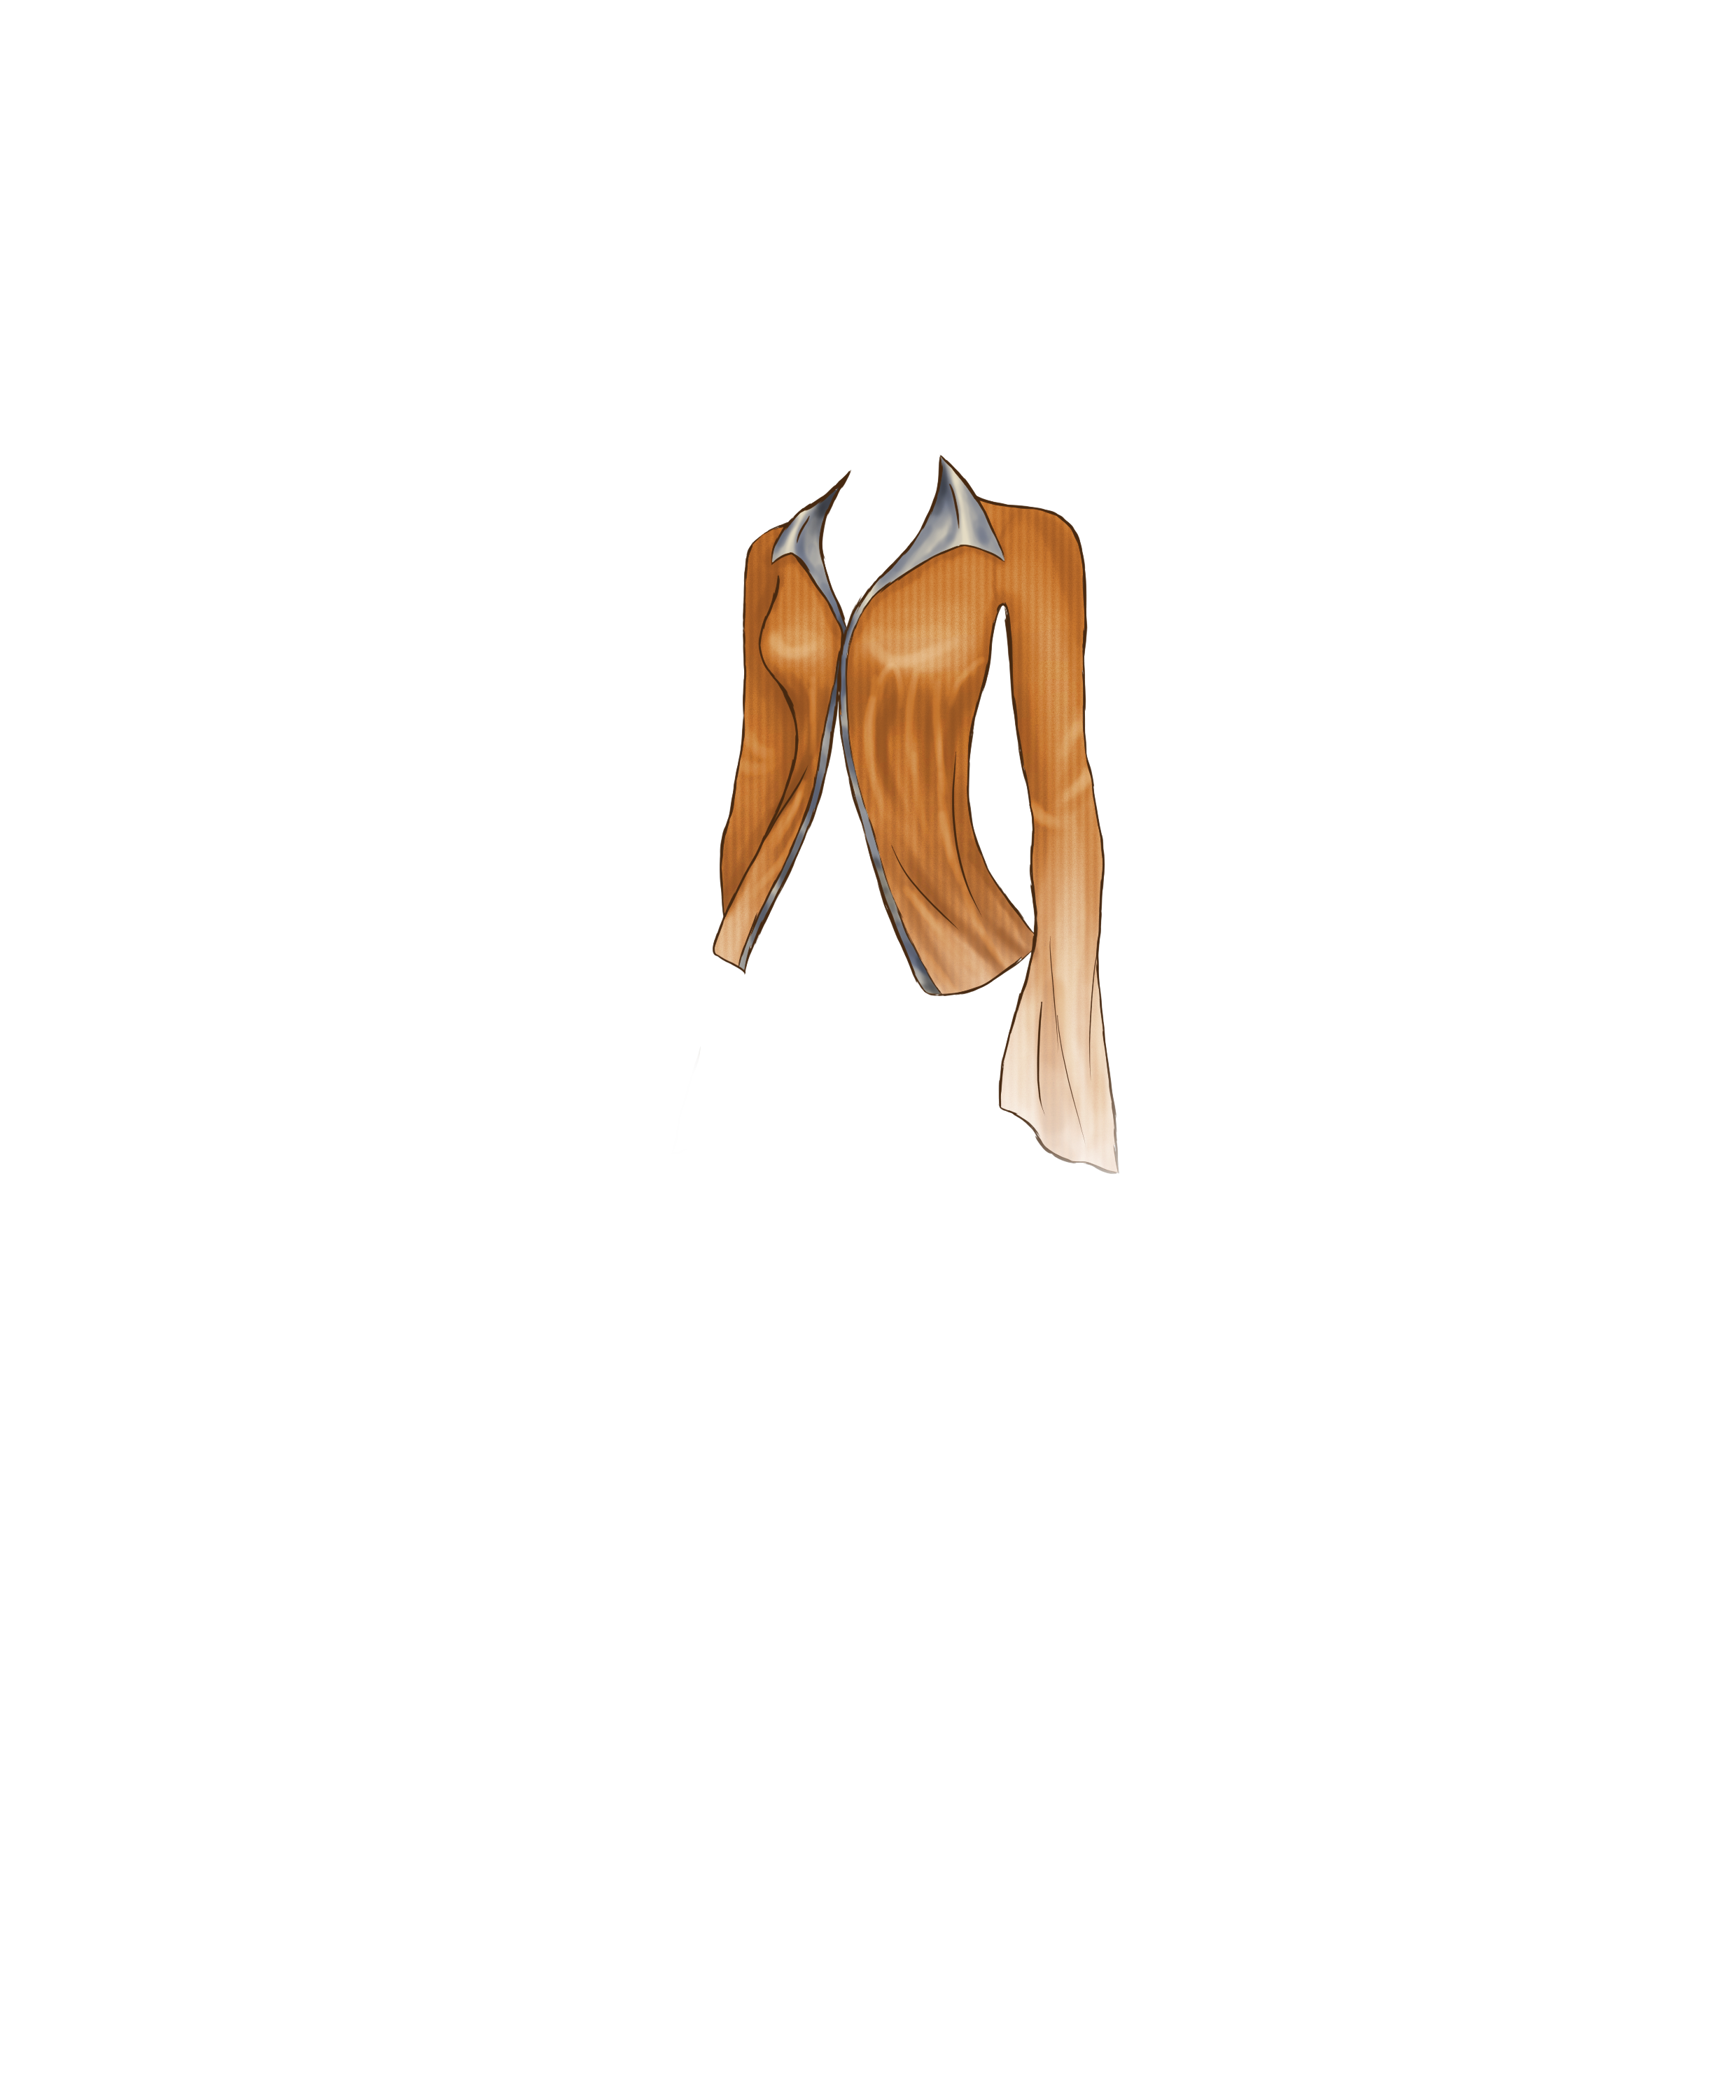
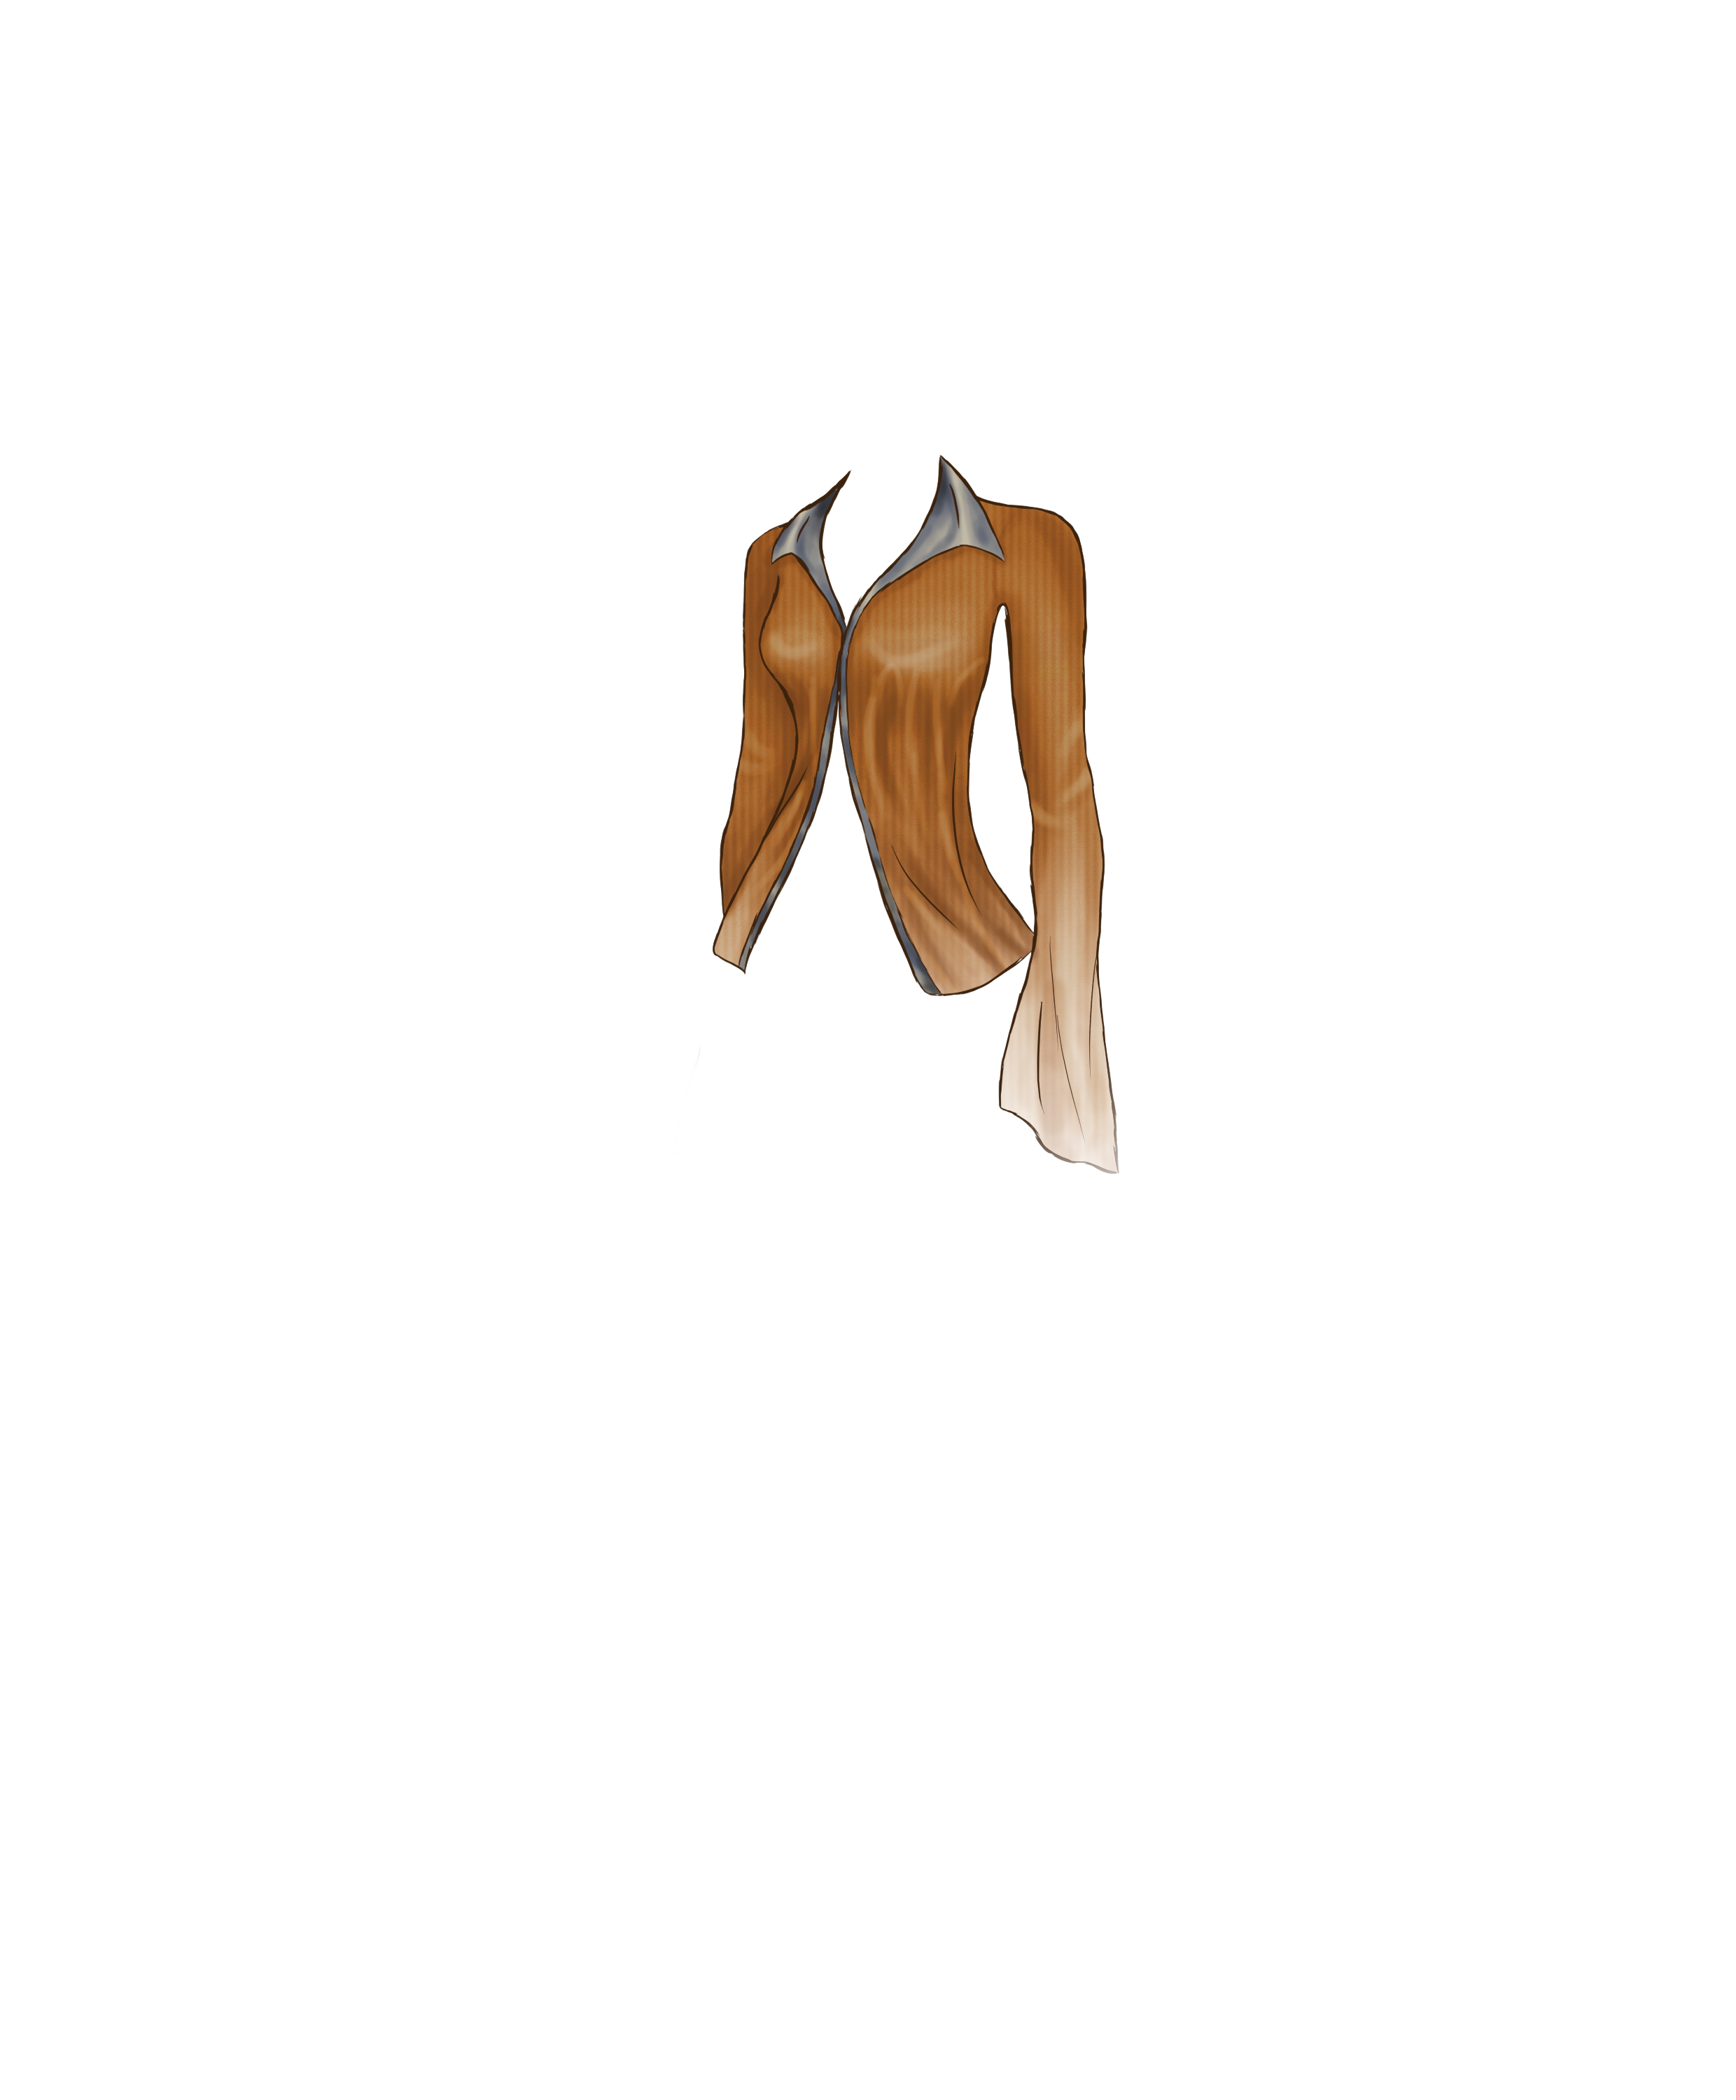
Editing images, added new top

Changed region(s): [[0.4036, 0.217, 0.652, 0.465]]

diff --git a/dollidemo.html b/dollidemo.html
@@ -1,10 +1,3 @@
-
-
-
-
-
-
-
 <!DOCTYPE html>
 <html lang="en">
 <head>
@@ -837,6 +830,7 @@
 
                 <div class="clothes">
 
+
                     <div class="topstyle" id="tubetop">
 
                     <img loading="lazy" src="DressupGame_Assets/Clothes/Under/Tube/tubetop_pink.PNG" data-color="pink" class="tops"/>
@@ -850,6 +844,19 @@
                     <img loading="lazy" src="DressupGame_Assets/Clothes/Under/Tube/tubetop_white.png" data-color="white" style="display:block;" class="tops"/>       
                     <img loading="lazy" src="DressupGame_Assets/Clothes/Under/Tube/tubetop_black.png" data-color="black" class="tops"/>
        
+                    </div>
+
+                    <div class="topstyle" id="bandeau">
+                    <img loading="lazy" src="DressupGame_Assets/Clothes/Under/Bandeau/pattern_bandeau_pink.png" data-color="pink" class="tops"/>
+                    <img loading="lazy" src="DressupGame_Assets/Clothes/Under/Bandeau/pattern_bandeau_red.png" data-color="red" class="tops"/>
+                    <img loading="lazy" src="DressupGame_Assets/Clothes/Under/Bandeau/pattern_bandeau_yellow.png" data-color="yellow" class="tops"/>
+                    <img loading="lazy" src="DressupGame_Assets/Clothes/Under/Bandeau/pattern_bandeau_green.png" data-color="green" class="tops"/>
+                    <img loading="lazy" src="DressupGame_Assets/Clothes/Under/Bandeau/pattern_bandeau_blue.png" data-color="blue" class="tops"/>                    
+                    <img loading="lazy" src="DressupGame_Assets/Clothes/Under/Bandeau/pattern_bandeau_purple.png" data-color="purple" class="tops"/>
+                    <img loading="lazy" src="DressupGame_Assets/Clothes/Under/Bandeau/pattern_bandeau_magenta.png" data-color="magenta" class="tops"/>
+                    <img loading="lazy" src="DressupGame_Assets/Clothes/Under/Bandeau/pattern_bandeau_brown.png" data-color="brown" class="tops"/>
+                    <img loading="lazy" src="DressupGame_Assets/Clothes/Under/Bandeau/pattern_bandeau_white.png" data-color="white" class="tops"/>
+                    <img loading="lazy" src="DressupGame_Assets/Clothes/Under/Bandeau/pattern_bandeau_black.png" data-color="black" class="tops"/>
                     </div>
                   
                     <div class="topstyle" id="tank1">
@@ -917,7 +924,18 @@
                     <img loading="lazy" src="DressupGame_Assets/Clothes/Tops/Cardigan/cardigan_black.png" data-color="black" class="tops"/>
                     </div>
 
-
+                   <div class="topstyle" id="fishnet">
+                    <img loading="lazy" src="DressupGame_Assets/Clothes/Tops/FishnetSleeves/fishnet_sleeves_pink.png" data-color="pink" class="tops"/>
+                    <img loading="lazy" src="DressupGame_Assets/Clothes/Tops/FishnetSleeves/fishnet_sleeves_red.png" data-color="red" class="tops"/>
+                    <img loading="lazy" src="DressupGame_Assets/Clothes/Tops/FishnetSleeves/fishnet_sleeves_yellow.png" data-color="yellow" class="tops"/>
+                    <img loading="lazy" src="DressupGame_Assets/Clothes/Tops/FishnetSleeves/fishnet_sleeves_green.png" data-color="green" class="tops"/>
+                    <img loading="lazy" src="DressupGame_Assets/Clothes/Tops/FishnetSleeves/fishnet_sleeves_blue.png" data-color="blue" class="tops"/>                    
+                    <img loading="lazy" src="DressupGame_Assets/Clothes/Tops/FishnetSleeves/fishnet_sleeves_purple.png" data-color="purple" class="tops"/>
+                    <img loading="lazy" src="DressupGame_Assets/Clothes/Tops/FishnetSleeves/fishnet_sleeves_magenta.png" data-color="magenta" class="tops"/>
+                    <img loading="lazy" src="DressupGame_Assets/Clothes/Tops/FishnetSleeves/fishnet_sleeves_brown.png" data-color="brown" class="tops"/>
+                    <img loading="lazy" src="DressupGame_Assets/Clothes/Tops/FishnetSleeves/fishnet_sleeves_white.png" data-color="white" class="tops"/>
+                    <img loading="lazy" src="DressupGame_Assets/Clothes/Tops/FishnetSleeves/fishnet_sleeves_black.png" data-color="black" class="tops"/>
+                    </div>
 
 
 
@@ -1160,8 +1178,10 @@
              <p class="optiontitle">Tops</p>   
             <div class="optioncontainer">  
                     <div onclick="changeTopShape('tubetop', this)" data-category="tops" loading="lazy" class="beautyoptionstops" style="background-image: url(DressupGame_Assets/Clothes/Under/Tube/tubetop_white.png);" ></div>
+                    <div onclick="changeTopShape('bandeau', this)" data-category="tops" loading="lazy" class="beautyoptionstops" style="background-image: url(DressupGame_Assets/Clothes/Under/Bandeau/pattern_bandeau_white.png);" ></div>
                     <div onclick="changeTopShape('tank1', this)" data-category="tops" loading="lazy" class="beautyoptionstops" style="background-image: url(DressupGame_Assets/Clothes/Under/Tank1/tank1_white.png);"></div>
                     <div onclick="changeTopShape('tank2', this)" data-category="tops" loading="lazy" class="beautyoptionstops" style="background-image: url(DressupGame_Assets/Clothes/Under/Tank2/tank2_white.png);"></div>
+                    <div onclick="changeTopShape('fishnet', this)" data-category="tops" loading="lazy" class="beautyoptionstops" style="background-image: url(DressupGame_Assets/Clothes/Tops/FishnetSleeves/fishnet_sleeves_black.png);"></div>
                     <div onclick="changeTopShape('cardigan', this)" data-category="tops" loading="lazy" class="beautyoptionstops" style="background-image: url(DressupGame_Assets/Clothes/Tops/Cardigan/cardigan_white.png);"></div>
                     <div onclick="changeTopShape('buttonup', this)" data-category="tops" loading="lazy" class="beautyoptionstops" style="background-image: url(DressupGame_Assets/Clothes/Tops/Buttonup/buttonup_white.png);"></div>
                     <div onclick="changeTopShape('beyonce', this)" data-category="tops" loading="lazy" class="beautyoptionstops" style="background-image: url(DressupGame_Assets/Clothes/Tops/Beyonce/beyonce_white.png);"></div>